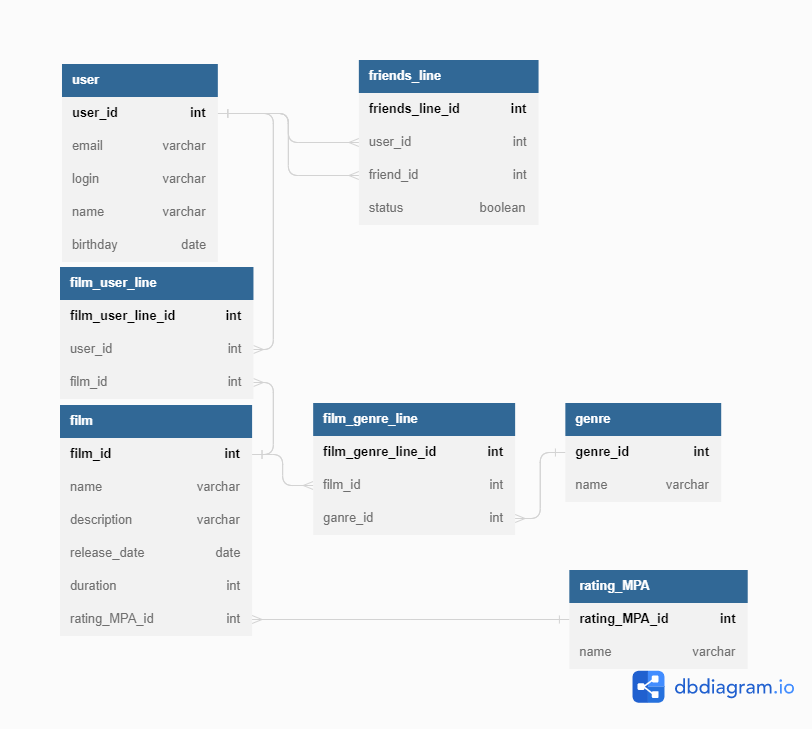
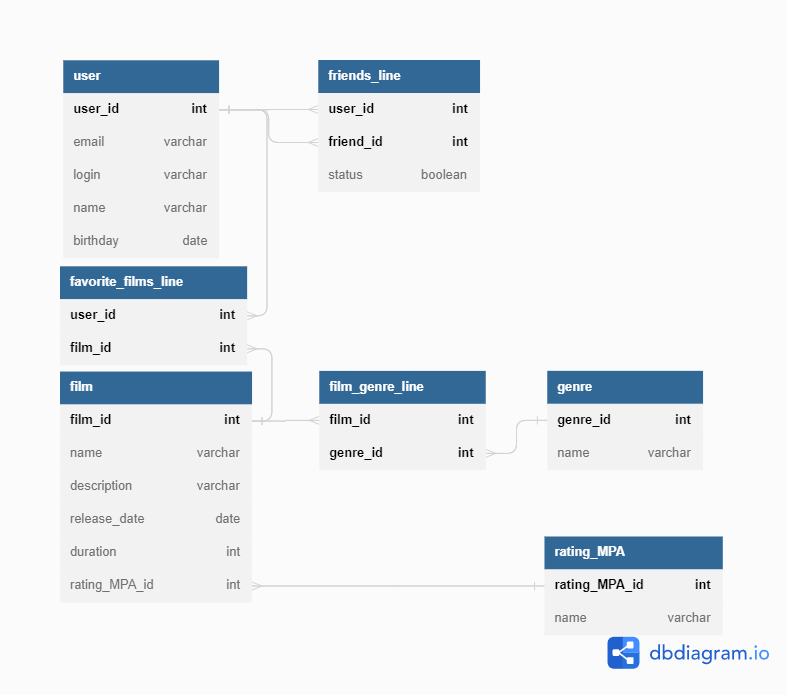
Модуль 3. Спринт 11. Пир-ревью 2 fix: для таблиц friends_line, favorite_films_line и film_genre_line использовать составные первичные ключи из двух id fix: исправить опечатку в таблице film_genre_line

diff --git a/README.md b/README.md
@@ -25,7 +25,6 @@
 * Связь между пользователями "Многие к многим", для их сопоставления создана таблица friends_line.
   Поле status отражает статус дружбы: подтверждена - TRUE, неподтверждена - FALSE
 * Связь между пользователями и фильмами, а также фильмами и жанрами также "Многие к многим". Для их сопоставления
-  созданы таблицы film_user_line и film_genre_line соответственно
+  созданы таблицы favorite_films_line и film_genre_line соответственно
 * Связь между рейтингом и фильмом "Один к многим", т.к. rating_MPA_id уникален и может быть присвоен множеству фильмов
-* Для таблиц friends_line, film_user_line и film_genre_line созданы уникальные первичные ключи, но также возможен
-  вариант с использованием составного первичного ключа из двух id. Пока не понимаю какой вариант предпочтителен
+* Для таблиц friends_line, favorite_films_line и film_genre_line использованы составные первичные ключи из двух id.
